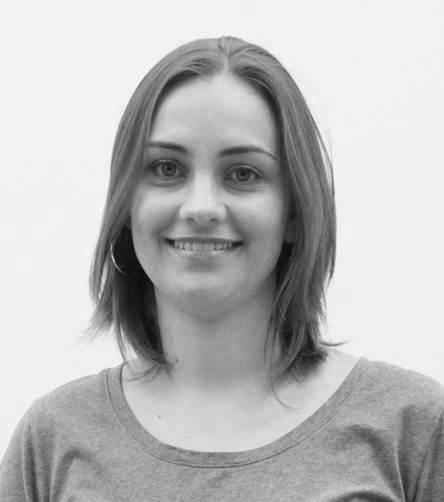
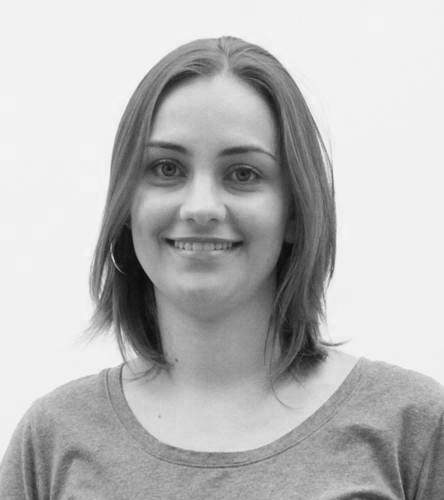
Atualizada foto e bio da Márcia

diff --git a/index.html b/index.html
@@ -1233,7 +1233,7 @@
           <div class="col-lg-3 col-md-6 d-flex align-items-stretch">
             <div class="member" data-aos="fade-up" data-aos-delay="100">
               <div class="member-img">
-                <img src="assets/img/team/equipe_marcia_1.jpeg" class="img-fluid" alt="">
+                <img src="assets/img/team/equipe_marcia.jpg" class="img-fluid" alt="">
                 <!--
                 <div class="social">
                   <a href=""><i class="bi bi-twitter"></i></a>
@@ -1245,13 +1245,15 @@
               </div>
               <div class="member-info">
                 <h4>Márcia Silva</h4>
-                <span>Administradora e especialista em Terceiro Setor e Investimento Social Privado com pós-graduação em
-                  Gestão Social pela IERGS/UNIASELVI. Certificada pela APM Group em Project Management for Development
-                  Professionals – PMD PRO – Certificação internacional em Gestão de Projetos Sociais. Atua desde 1997 no
-                  Terceiro Setor e desde 2007 como consultora independente. Ao longo dos anos acumulou experiência nas
-                  áreas de assessoria e formação em gestão junto a organizações sociais, órgãos públicos, institutos e
-                  fundações empresariais. Desde 2014 tem desenvolvido trabalhos de planejamento e execução de projetos
-                  coletivos em comunidades.</span>
+                <span>Graduada em Administração, pós-graduada em Gestão Social, mestre em Administração, doutoranda em
+                  Design na área de concentração de Design Estratégico, com pesquisa na área de Inovação Social,
+                  bolsista CAPES/PROSUC. Membro do Seedinglab do PPG Design da Unisinos, um laboratório vinculado à rede
+                  internacional DESIS - Design for Social Innovation and Sustainability, membro do corpo editorial da
+                  Strategic Design Research Journal (SDRJ). Docente em Administração. Consultora independente
+                  especialista em Terceiro Setor e Investimento Social Privado, desde 1996, atua em iniciativas de
+                  projetos coletivos comunitários, redes intersetoriais e planejamento comunitário. Consultora do
+                  PNUD/ONU Brasil nas áreas de formação e sistematização em projetos sobre Territorialização e
+                  Aceleração dos ODS. Certificada pela APM Group em Project Management for Development.</span>
               </div>
             </div>
           </div>
